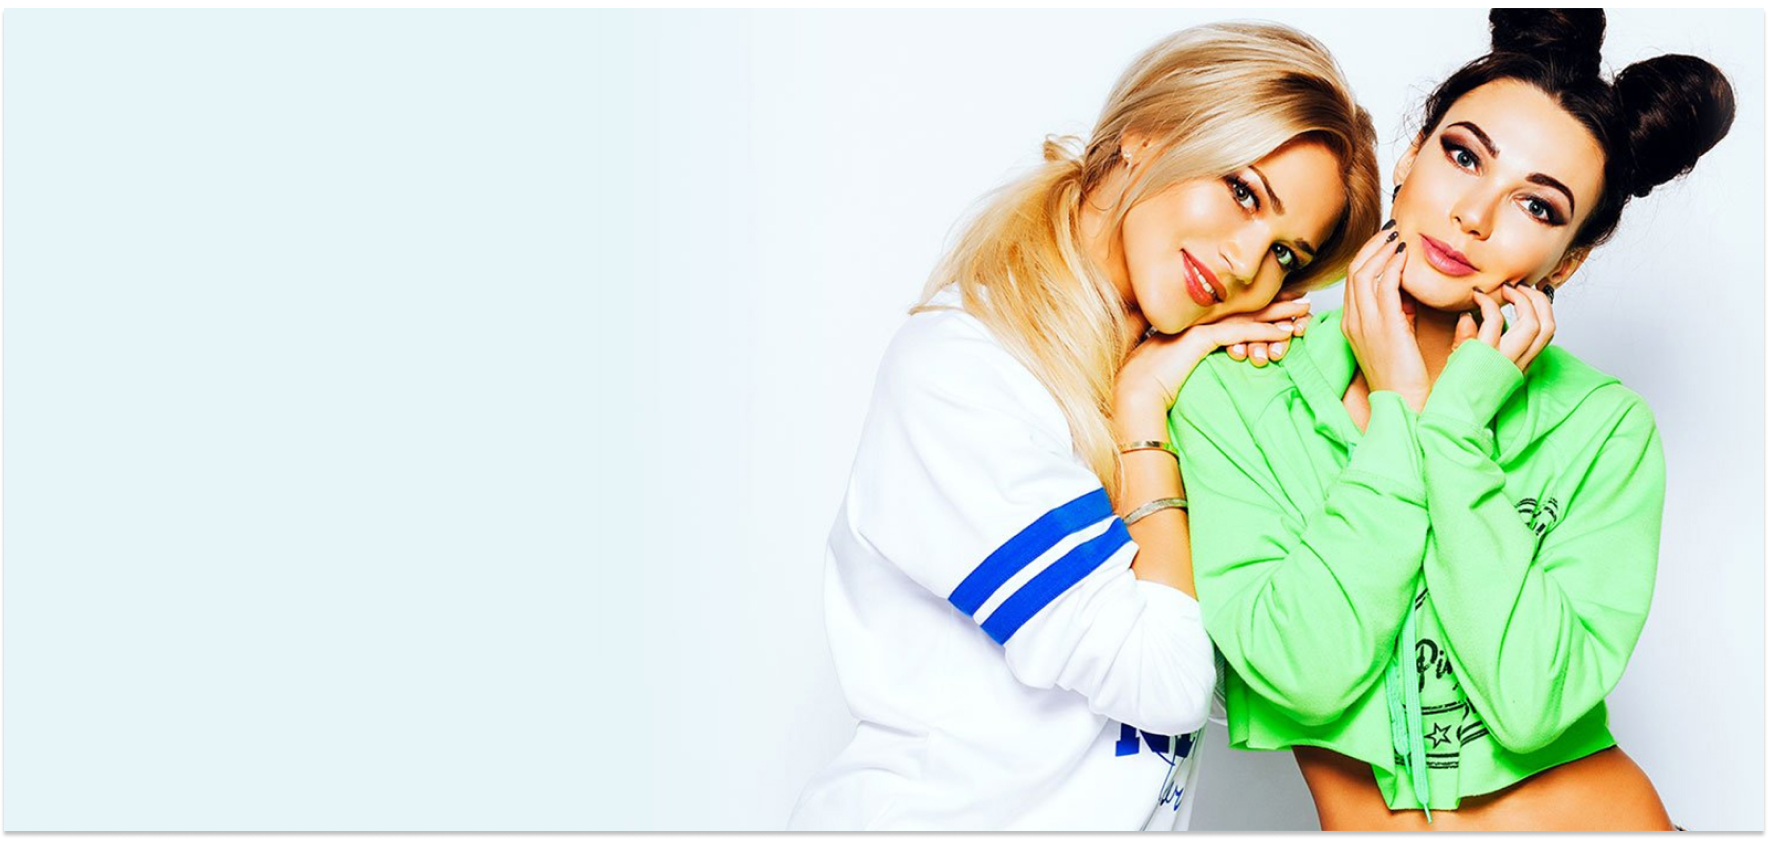
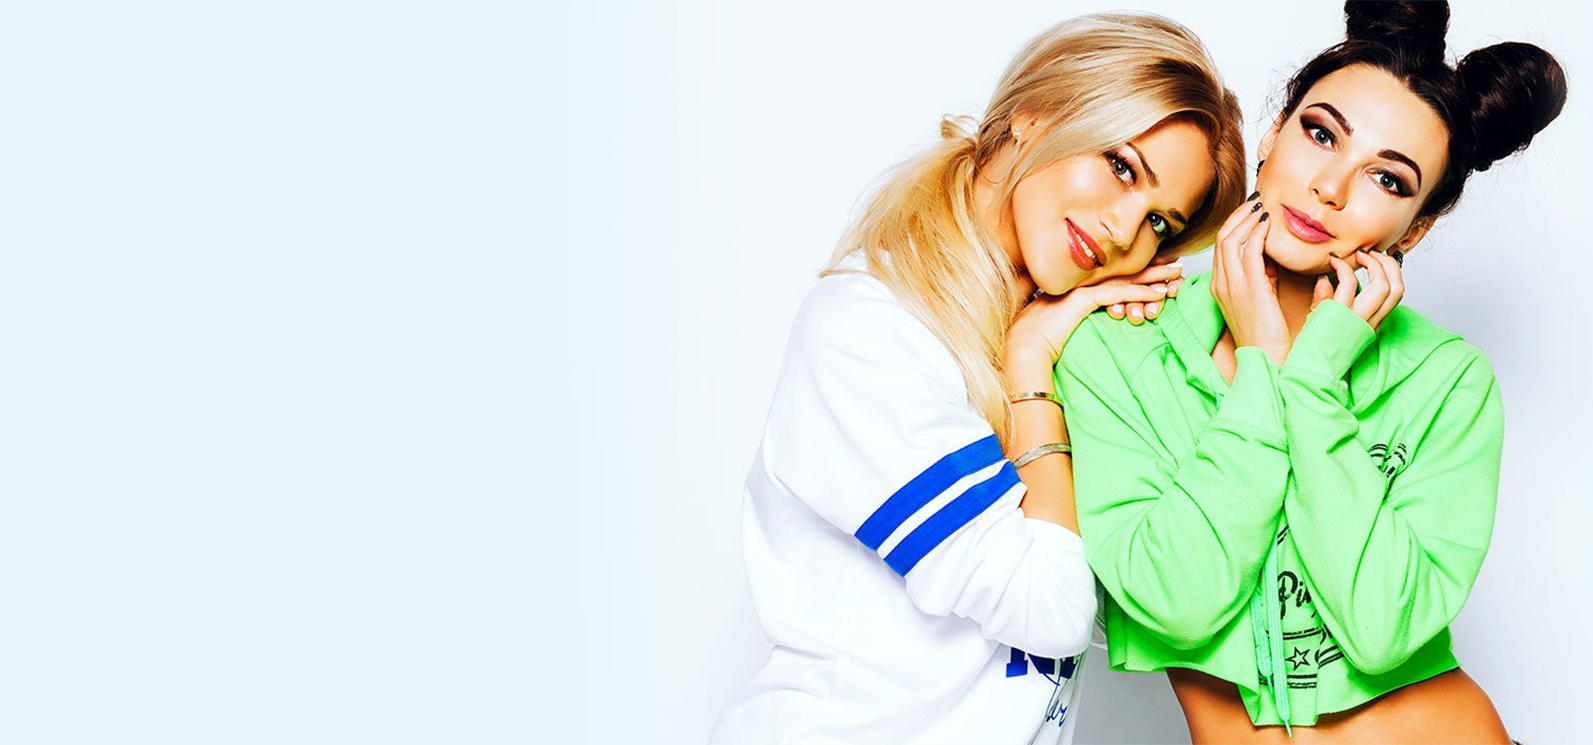
mobile-responsive-done

Changed region(s): [[0.0, 0.0, 1.0, 1.0], [0.4922, 0.8336, 0.5229, 0.8953]]

diff --git a/src/index.html b/src/index.html
@@ -18,7 +18,7 @@
 <body class="text-primary">
   <div class="w-screen max-w-[2500px] mx-auto">
 
-    <section
+    <nav
       class="w-full h-16 px-5 py-7 md:px-12 lg:px-20 xl:px-26 2xl:px-32 flex justify-between items-center fixed top bg-white z-50">
       <img src="../asset/logo/google-logo-9814.png" class="w-8 h-8">
       <div class="w-2/12 flex justify-between text-lg">
@@ -30,7 +30,7 @@
         <span class="w-10/12  h-[3px] bg-primary rounded-sm"></span>
         <span class="w-full h-[3px] bg-primary rounded-sm"></span>
       </div>
-    </section>
+    </nav>
 
     <section class="w-full md:px-12 lg:px-20 xl:px-26 2xl:px-32">
       <div class="w-screen h-screen bg-cover bg-center px-5 flex flex-col justify-end pb-20 box-border"
@@ -172,16 +172,76 @@
     </section>
 
     <section class="w-full md:px-12 lg:px-20 xl:px-26 2xl:px-32 flex justify-between items-center mt-16">
-      <div class="w-screen h-screen bg-cover bg-right p-4 flex flex-col justify-end" style="background-image: url(../asset/9.png);">
-        <div class="self-end">
+      <div class="w-screen h-screen bg-cover bg-right p-5 flex flex-col justify-end"
+        style="background-image: url(../asset/9.png);">
+        <div class="-mt-10">
           <h1 class="text-xl font-semibold">OWN THE DAY</h1>
-          <p class="text-4xl font-bold">TACHEN19</p>
-          <button class="px-4 py-2 bg-primary text-white">SHOP COLLECTION</button>
+          <p class="text-6xl font-bold">TACHEN19</p>
+          <button class="mt-3 px-4 py-2 bg-primary text-white">SHOP COLLECTION</button>
         </div>
       </div>
     </section>
-    <section class="w-full px-5 md:px-12 lg:px-20 xl:px-26 2xl:px-32 flex justify-between items-center">
-    </section>
+
+    <footer class="w-full px-5 md:px-12 lg:px-20 xl:px-26 2xl:px-32 flex flex-col items-center bg-ijoenom pt-20 pb-6">
+      <div class="flex flex-col items-center w-full">
+        <h1 class="text-xl font-semibold">RECIVE EMAIL UPDATES</h1>
+        <div class="mt-3">
+          <input type="text" class="px-2 py-2" placeholder="Your Email Address">
+          <button class="px-2 py-2 bg-white">Join</button>
+        </div>
+
+        <div class="w-full flex justify-between text-center mt-8">
+          <div>
+            <h1 class="text-xl font-semibold">SHOP</h1>
+            <ul>
+              <li><a href="#">shop</a></li>
+              <li><a href="#">collection</a></li>
+              <li><a href="#">outlet</a></li>
+              <li><a href="#">lookbook</a></li>
+            </ul>
+          </div>
+
+          <div>
+            <h1 class="text-xl font-semibold">HELP</h1>
+            <ul>
+              <li><a href="#">FAQ</a></li>
+              <li><a href="#">Privacy Policy</a></li>
+            </ul>
+          </div>
+
+          <div>
+            <h1 class="text-xl font-semibold">ABOUT</h1>
+            <ul>
+              <li><a href="#">journal</a></li>
+              <li><a href="#">our story</a></li>
+              <li><a href="#">contact</a></li>
+              <li><a href="#">store location</a></li>
+            </ul>
+          </div>
+        </div>
+      </div>
+
+      <div class="mt-8 flex flex-col gap-y-4 self-start">
+        <p class="font-semibold">We earned a reputation of being good at what we do.
+          Let us take your online shop to new dimension in
+          success!</p>
+        <div class="flex flex-col gap-y-1 w-9/12">
+          <p>Trenggalek, East Java Indonesia 2023</p>
+          <p>pengkyjd00@gmail.com</P>
+          <p>+6285161919533</p>
+        </div>
+        <div class="w-5/12 flex justify-between text-lg">
+          <i class="fa-brands fa-facebook"></i>
+          <i class="fa-brands fa-instagram"></i>
+          <i class="fa-brands fa-twitter"></i>
+          <i class="fa-brands fa-linkedin"></i>
+        </div>
+      </div>
+
+      <div class="w-full h-8 grid place-items-center mt-8">
+        <p>Copyright © 2023 . PNGKY All rights reserved</p>
+      </div>
+    </footer>
 
     <script src="gerak.js"></script>
   </div>

diff --git a/dist/output.css b/dist/output.css
@@ -583,6 +583,10 @@ video {
   margin-top: -5rem;
 }
 
+.mt-3 {
+  margin-top: 0.75rem;
+}
+
 .box-border {
   box-sizing: border-box;
 }
@@ -679,6 +683,14 @@ video {
   width: 66.666667%;
 }
 
+.w-9\/12 {
+  width: 75%;
+}
+
+.w-5\/12 {
+  width: 41.666667%;
+}
+
 .max-w-\[2500px\] {
   max-width: 2500px;
 }
@@ -725,8 +737,16 @@ video {
   row-gap: 0.75rem;
 }
 
+.gap-y-1 {
+  row-gap: 0.25rem;
+}
+
 .place-self-end {
   place-self: end;
+}
+
+.self-start {
+  align-self: flex-start;
 }
 
 .self-end {
@@ -754,6 +774,21 @@ video {
 .bg-black {
   --tw-bg-opacity: 1;
   background-color: rgb(0 0 0 / var(--tw-bg-opacity));
+}
+
+.bg-ijoenom {
+  --tw-bg-opacity: 1;
+  background-color: rgb(242 248 252 / var(--tw-bg-opacity));
+}
+
+.bg-orange-400 {
+  --tw-bg-opacity: 1;
+  background-color: rgb(251 146 60 / var(--tw-bg-opacity));
+}
+
+.bg-ijotuek {
+  --tw-bg-opacity: 1;
+  background-color: rgb(231 245 248 / var(--tw-bg-opacity));
 }
 
 .bg-cover {
@@ -791,6 +826,14 @@ video {
   padding: 1rem;
 }
 
+.p-10 {
+  padding: 2.5rem;
+}
+
+.p-5 {
+  padding: 1.25rem;
+}
+
 .px-5 {
   padding-left: 1.25rem;
   padding-right: 1.25rem;
@@ -811,8 +854,29 @@ video {
   padding-bottom: 0.5rem;
 }
 
+.px-2 {
+  padding-left: 0.5rem;
+  padding-right: 0.5rem;
+}
+
 .pb-20 {
   padding-bottom: 5rem;
+}
+
+.pt-20 {
+  padding-top: 5rem;
+}
+
+.pb-10 {
+  padding-bottom: 2.5rem;
+}
+
+.pb-6 {
+  padding-bottom: 1.5rem;
+}
+
+.text-left {
+  text-align: left;
 }
 
 .text-center {
@@ -842,6 +906,16 @@ video {
 .text-4xl {
   font-size: 2.25rem;
   line-height: 2.5rem;
+}
+
+.text-8xl {
+  font-size: 6rem;
+  line-height: 1;
+}
+
+.text-6xl {
+  font-size: 3.75rem;
+  line-height: 1;
 }
 
 .font-semibold {
